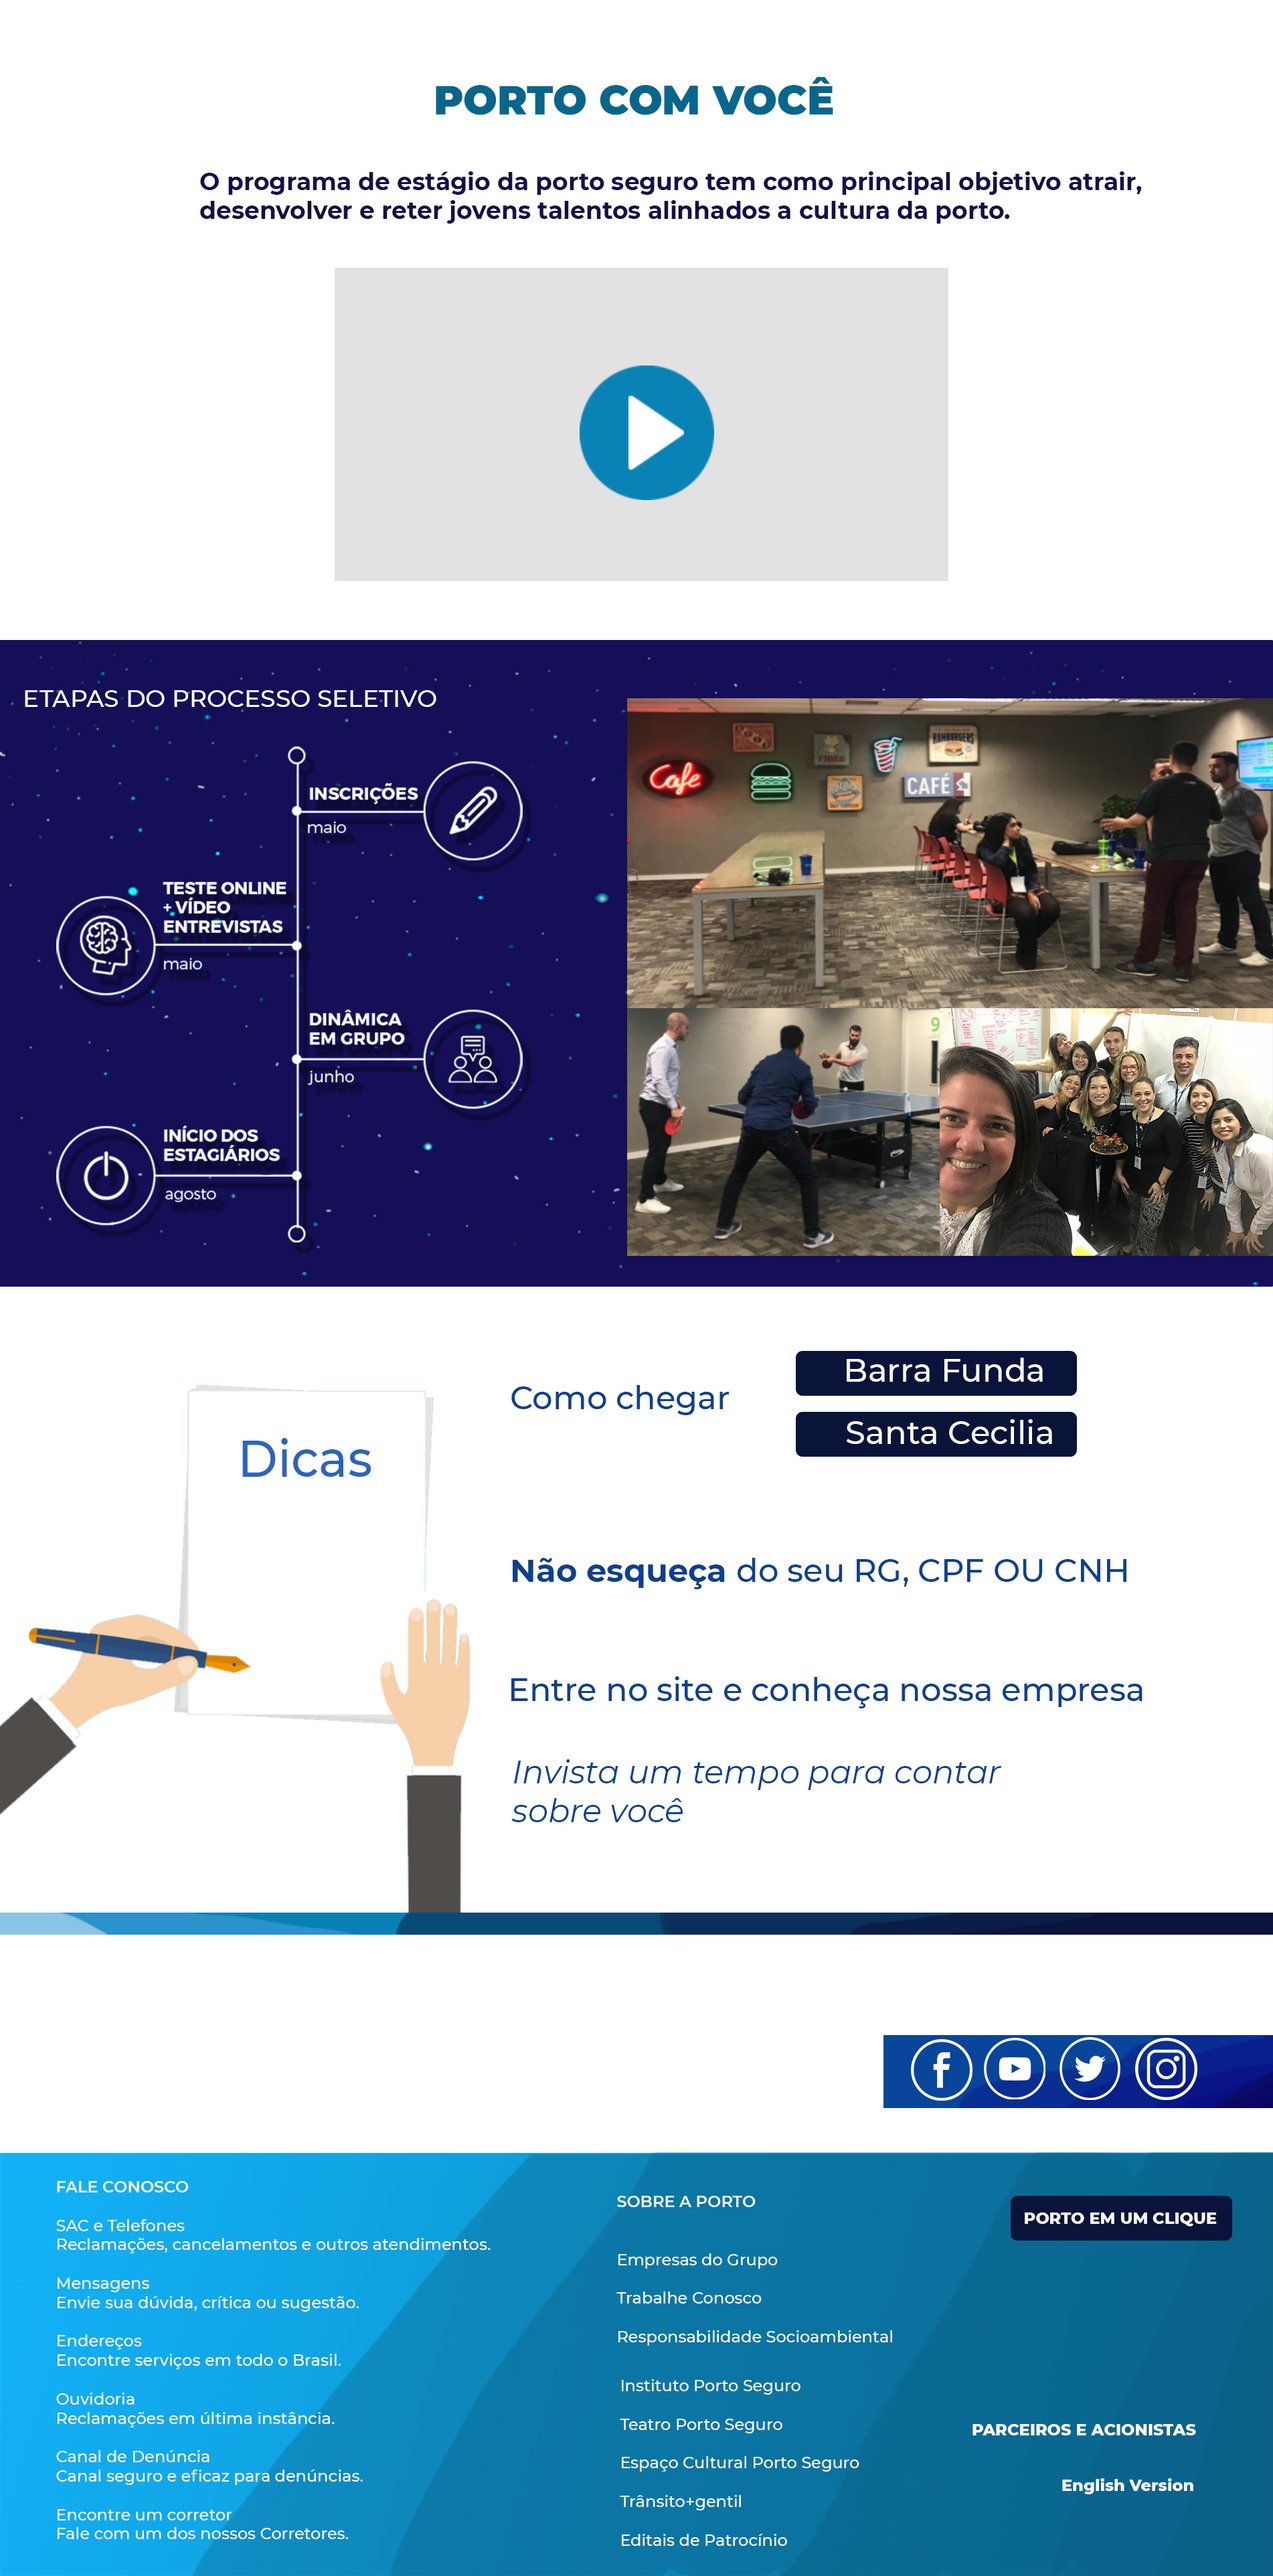
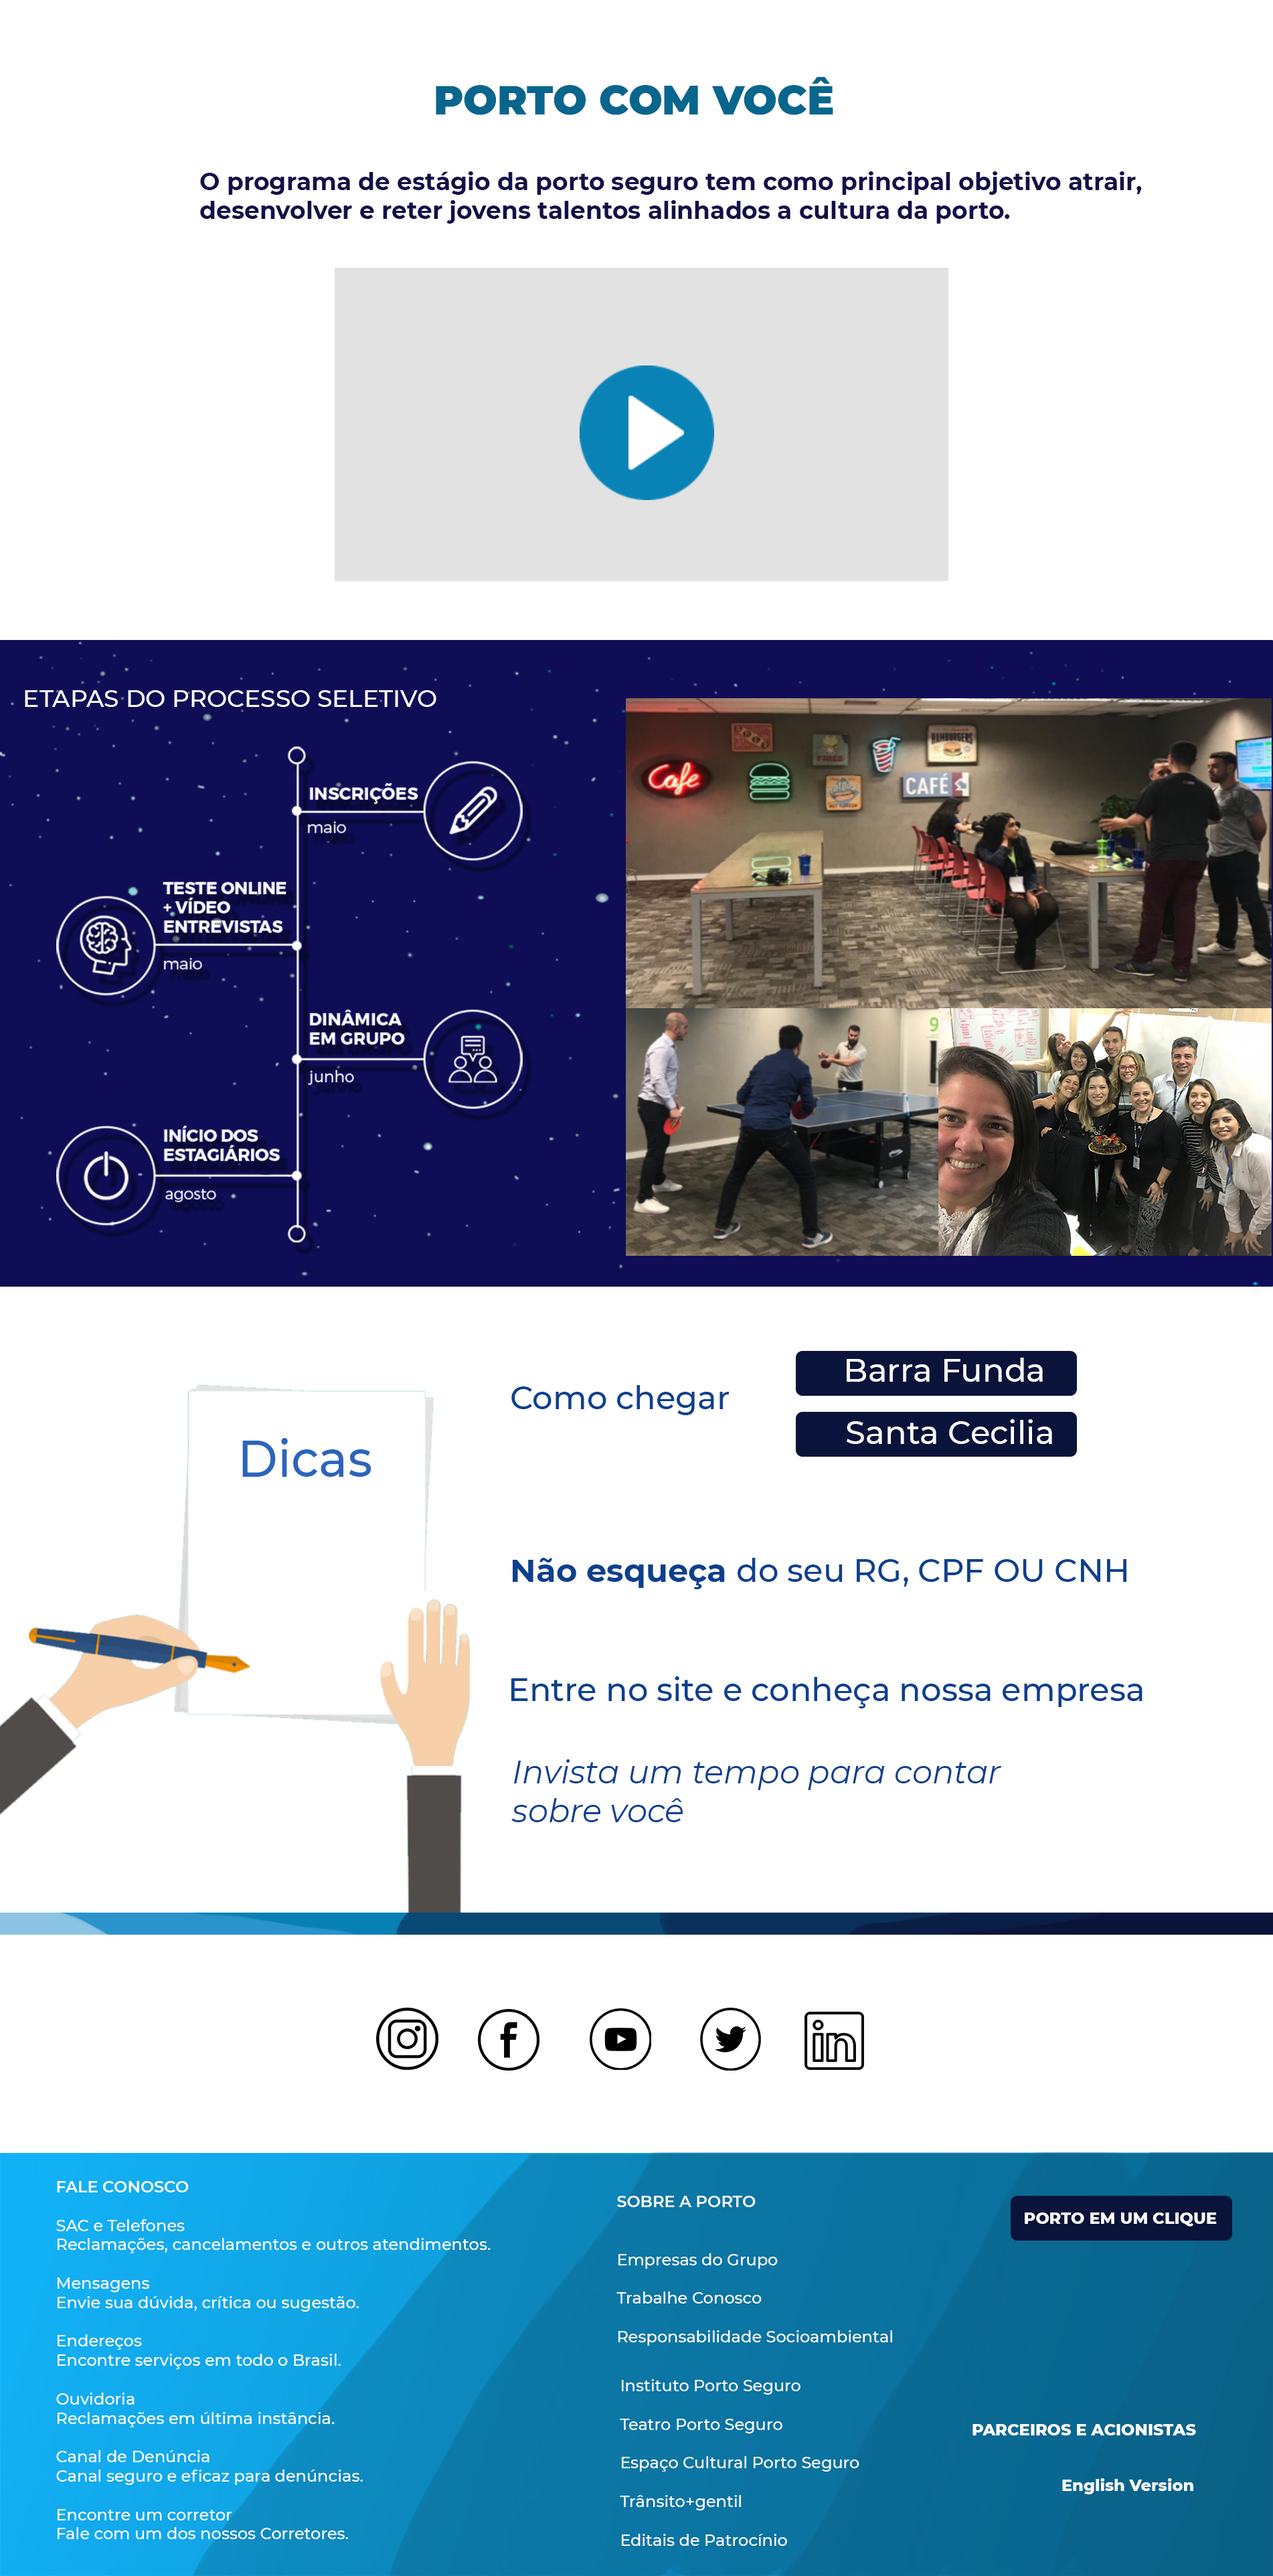
ajustar links

diff --git a/styles.css b/styles.css
@@ -1,6 +1,6 @@
 body{
     margin: 0;
-    height: 3500px;
+    height: 3640px;
     width: 100vw; /*1810   1902*/
 }
 #div{
@@ -31,18 +31,85 @@ body{
     right: 8%;
 }
 
+#redes{
+    position: absolute;
+    display: flex;
+    justify-content: center;
+    border: 10px red solid;
+    width: 36%;
+    height: 60px;
+    bottom: -246%;
+    left: 26.5%;
+}
+
+#face{
+    /* border: 10px green solid; */
+    width: 20%;
+}
+
+#youtube{
+    /* border: 10px green solid; */
+    width: 20%;
+}
+
+#twitter{
+    /* border: 10px green solid; */
+    width: 20%;
+}
+
+#insta{
+    /* border: 10px green solid; */
+    width: 20%;
+}
+
+#linkedin{
+    /* border: 10px green solid; */
+    width: 20%;
+}
+
 @media(min-width: 1280px){
     body{
         height: 3200px;
     }
     #div{
-        background-size: contain;
+        background-size: cover;
     }
     .clique{
         bottom: 25%;
     }
     #experientes{
         right: 9%;
+    }
+
+    #redes{
+        position: absolute;
+        display: flex;
+        justify-content: center;
+        border: 10px red solid;
+        width: 36%;
+        height: 60px;
+        bottom: -246%;
+        left: 26.5%;
+    }
+    
+    #face{
+        width: 20%;
+    }
+    
+    #youtube{
+        width: 20%;
+    }
+    
+    #twitter{
+        width: 20%;
+    }
+    
+    #insta{
+        width: 20%;
+    }
+    
+    #linkedin{
+        width: 20%;
     }
 }
 

diff --git a/script.js b/script.js
@@ -1,6 +1,13 @@
 let estagio = document.querySelector('#estagio');
 let experiente = document.querySelector('#experientes');
 
+
+let face = document.querySelector('#face');
+let youtube = document.querySelector('#youtube');
+let twitter = document.querySelector('#twitter');
+let insta = document.querySelector('#insta');
+let linkedin = document.querySelector('#linkedin');
+
 estagio.onclick = abrirEstagio;
 experientes.onclick = abrirExperientes;
 
@@ -11,3 +18,30 @@ function abrirEstagio(){
 function abrirExperientes(){
     window.open('experientes.html', '_self');
 }
+
+function abrirFace(){
+    window.open('https://www.facebook.com/portoseguro/');
+}
+
+function abrirYoutube(){
+    window.open('https://www.youtube.com/user/portoseguro');
+}
+
+function abrirTwitter(){
+    window.open('https://twitter.com/portoseguro');
+}
+
+function abrirInsta(){
+    window.open('https://www.instagram.com/portoseguro/?hl=pt-br');
+}
+
+function abrirLinkedin(){
+    window.open('https://www.linkedin.com/company/porto-seguro');
+}
+
+
+face.onclick = abrirFace;
+youtube.onclick = abrirYoutube;
+twitter.onclick = abrirTwitter;
+insta.onclick = abrirInsta;
+linkedin.onclick = abrirLinkedin;

diff --git a/index.html b/index.html
@@ -13,5 +13,12 @@
         <div id="estagio" class="clique"></div>
         <div id="experientes" class="clique"></div>
     </div>
+    <div id="redes">/- 
+        <div id="face"></div>
+        <div id="youtube"></div>
+        <div id="twitter"></div>
+        <div id="insta"></div>
+        <div id="linkedin"></div>
+    </div>
[1 lines of base64/hex data omitted]
 </html>
